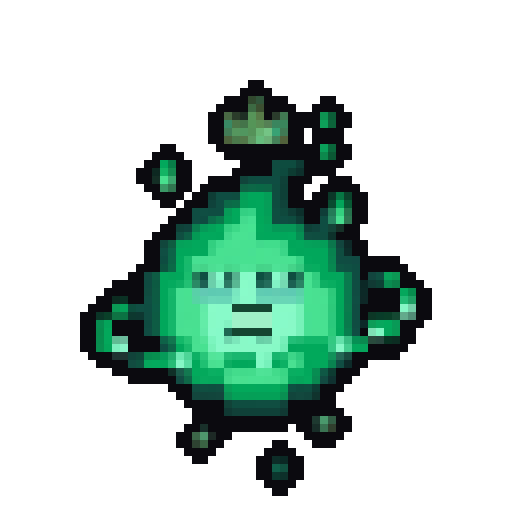
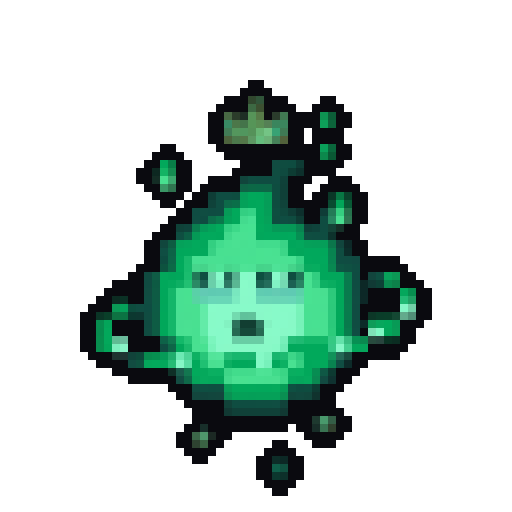
fix(ui): repair Cuprum talk sprite pixels and add rhythmic mouth animation

Changed region(s): [[0.4375, 0.5938, 0.5312, 0.6875]]

diff --git a/frontend/src/components/CuprumCompanionPanel.tsx b/frontend/src/components/CuprumCompanionPanel.tsx
@@ -101,6 +101,7 @@ export function CuprumCompanionPanel({
   const [frame, setFrame] = useState<CuprumSpriteFrame>(() =>
     cuprumSpriteFrame(INITIAL_CUPRUM_SPRITE_STATE),
   );
+  const [talkFlap, setTalkFlap] = useState(true);
 
   const modeRef = useRef<'idle' | 'dialogue'>('idle');
   const ambientTimerRef = useRef<number | null>(null);
@@ -338,9 +339,23 @@ export function CuprumCompanionPanel({
     };
   }, [mode, activeNodeId, runtime.turn]);
 
-  const currentFrame: CuprumSpriteFrame | 'talk' = isTyping ? 'talk' : frame;
-  const currentWebp = `/assets/cuprum/${moodMeta.prefix}-${currentFrame}.webp?v=retro-outline-v4`;
-  const currentPng = `/assets/cuprum/${moodMeta.prefix}-${currentFrame}.png?v=retro-outline-v4`;
+  // Talking animation rhythm: gentle mouth flapping in retro RPG style while text types out
+  useEffect(() => {
+    if (!isTyping) {
+      setTalkFlap(true);
+      return;
+    }
+    const timer = window.setInterval(() => {
+      setTalkFlap((prev) => !prev);
+    }, 220);
+    return () => {
+      window.clearInterval(timer);
+    };
+  }, [isTyping]);
+
+  const currentFrame: CuprumSpriteFrame | 'talk' = isTyping && talkFlap ? 'talk' : frame;
+  const currentWebp = `/assets/cuprum/${moodMeta.prefix}-${currentFrame}.webp?v=retro-talk-v5`;
+  const currentPng = `/assets/cuprum/${moodMeta.prefix}-${currentFrame}.png?v=retro-talk-v5`;
 
   return (
     <div
